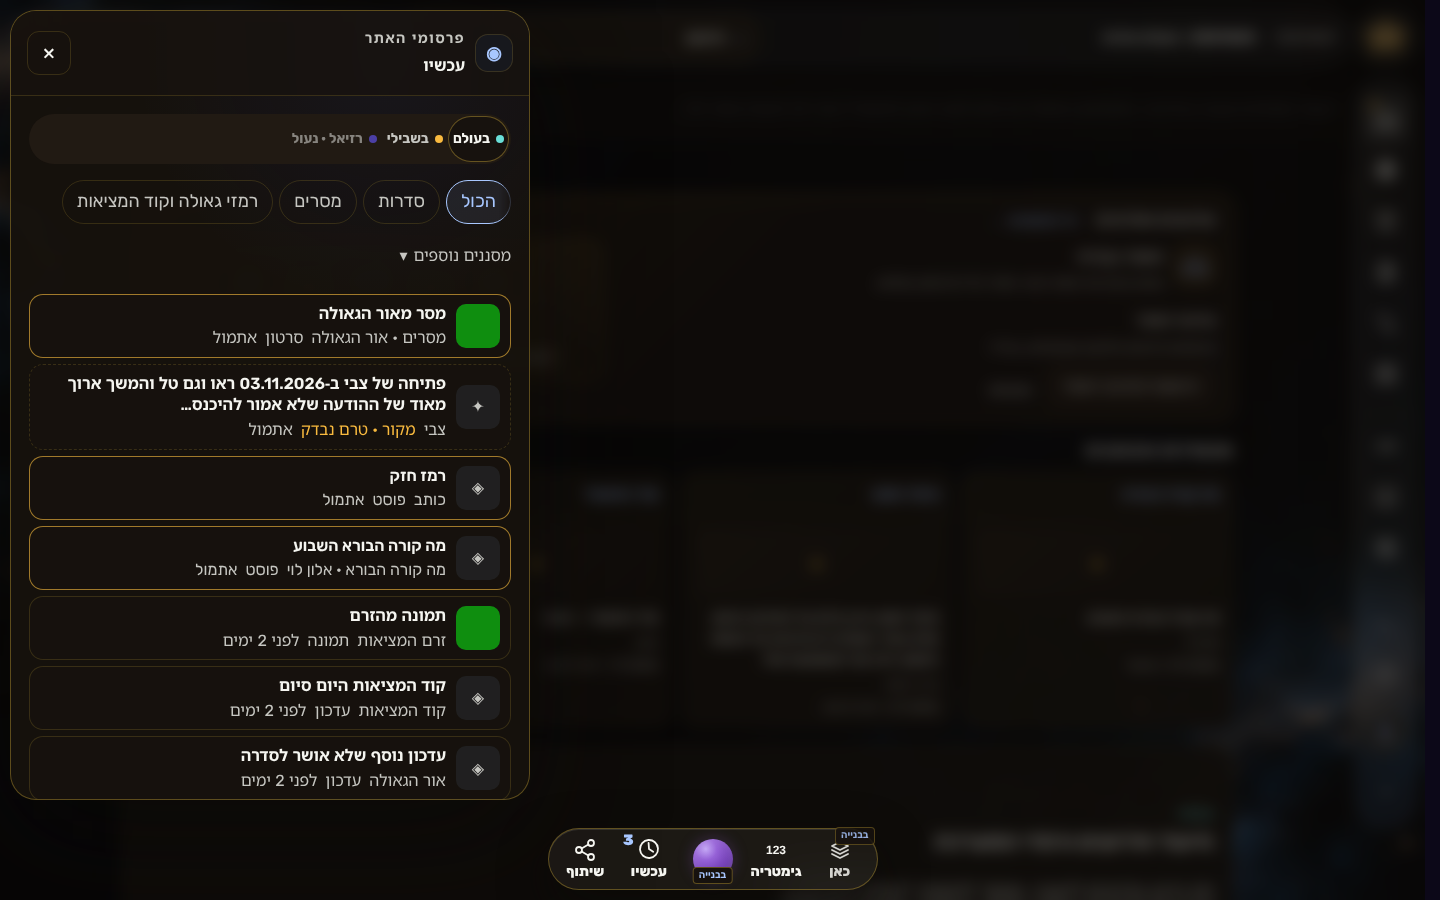
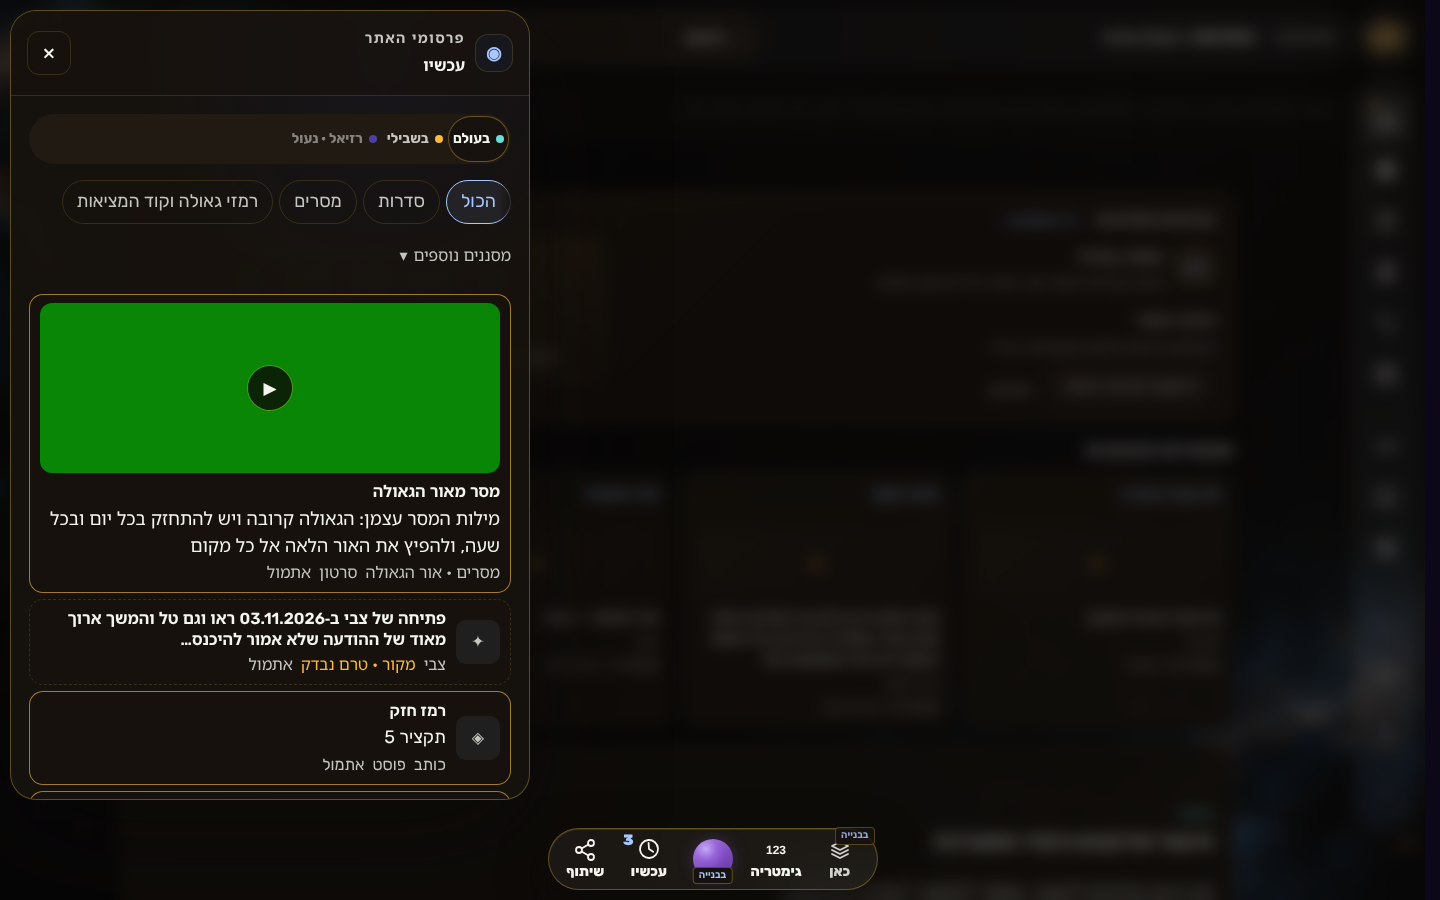
feat(2029): Now rows show the words of the message and a visible media preview
Unverified source (Zvi) rows stay two lines without preview.

Claude-Session: https://claude.ai/code/session_01H7739MZ2W1FHeYXdhPbKEB

Changed region(s): [[0.0, 0.3111, 0.375, 0.8711]]

diff --git a/src/components/experience2029/NowPublications2029.jsx b/src/components/experience2029/NowPublications2029.jsx
@@ -13,12 +13,25 @@ function Thumb({ model }) {
     : <span className="sod29-nowpub-thumb is-glyph" aria-hidden="true">{model.video ? "▶" : model.unverified ? "✦" : "◈"}</span>;
 }
 
+// Visible preview inside the row: never autoplays. A video without a poster shows its first frame (metadata only).
+function RowPreview({ model }) {
+  const poster = model.thumb;
+  return <span className={`sod29-nowpub-preview is-${model.previewKind}`} aria-hidden="true">
+    {model.previewKind === "video" && !poster && model.mediaHref
+      ? <video src={`${model.mediaHref}#t=0.1`} preload="metadata" muted playsInline tabIndex={-1} />
+      : poster ? <img src={poster} alt="" loading="lazy" decoding="async" /> : null}
+    {model.previewKind === "video" ? <span className="sod29-nowpub-playmark">▶</span> : null}
+  </span>;
+}
+
 function RowHead({ model, timeMode }) {
   const when = recordTimeLabel(model.at, timeMode, "זמן לא צוין");
+  const rich = Boolean(model.previewKind);
   return <>
-    <Thumb model={model} />
+    {rich ? <RowPreview model={model} /> : <Thumb model={model} />}
     <span className="sod29-nowpub-text">
-      <strong className="sod29-nowpub-title">{model.title}</strong>
+      {model.excerptIsLead ? null : <strong className="sod29-nowpub-title">{model.title}</strong>}
+      {model.excerpt ? <span className={`sod29-nowpub-excerpt${model.excerptIsLead ? " is-lead" : ""}`}>{model.excerpt}</span> : null}
       <small className="sod29-nowpub-meta">
         {model.byline.length ? <span>{model.byline.join(" · ")}</span> : null}
         <span className={model.unverified ? "is-unverified" : undefined}>{model.typeLabel}</span>
@@ -54,7 +67,7 @@ function RowDetail({ model, onOpen, feed }) {
 }
 
 function Row({ model, onOpen, feed, timeMode }) {
-  const className = `sod29-nowpub-row is-${model.media}${model.unverified ? " is-source" : ""}${model.row.isNew ? " is-new" : ""}`;
+  const className = `sod29-nowpub-row is-${model.media}${model.previewKind ? " has-preview" : ""}${model.unverified ? " is-source" : ""}${model.row.isNew ? " is-new" : ""}`;
   if (model.canExpand) return <li><details className={className} onToggle={event => { if (event.currentTarget.open) feed?.see?.(model.row); }}>
     <summary><RowHead model={model} timeMode={timeMode} /></summary>
     <RowDetail model={model} onOpen={onOpen} feed={feed} />

diff --git a/src/components/experience2029/nowPublications2029.css b/src/components/experience2029/nowPublications2029.css
@@ -29,6 +29,12 @@
 .sod29-nowpub-title{font-size:var(--s29-type-ui);font-weight:600;line-height:1.35;display:-webkit-box;-webkit-line-clamp:2;-webkit-box-orient:vertical;overflow:hidden;overflow-wrap:anywhere}
 .sod29-nowpub-meta{display:flex;flex-wrap:wrap;gap:2px 8px;font-size:var(--s29-type-small);color:var(--s29-muted);line-height:1.35}
 .sod29-nowpub-meta .is-unverified,.sod29-nowpub-detail .is-unverified{color:var(--s29-brand-gold)}
+.sod29-nowpub-excerpt{font-size:var(--s29-type-body);line-height:1.5;display:-webkit-box;-webkit-line-clamp:4;-webkit-box-orient:vertical;overflow:hidden;overflow-wrap:anywhere;color:var(--s29-ink)}
+.sod29-nowpub-excerpt.is-lead{font-weight:600}
+.sod29-nowpub-row.has-preview.is-link,.sod29-nowpub-row.has-preview>summary{flex-direction:column;align-items:stretch;gap:8px}
+.sod29-nowpub-preview{position:relative;display:block;width:100%;aspect-ratio:16/9;max-height:170px;border-radius:12px;overflow:hidden;background:color-mix(in srgb,var(--s29-panel) 80%,#000)}
+.sod29-nowpub-preview img,.sod29-nowpub-preview video{position:absolute;inset:0;width:100%;height:100%;object-fit:cover;pointer-events:none}
+.sod29-nowpub-playmark{position:absolute;inset:0;margin:auto;width:44px;height:44px;border-radius:50%;display:grid;place-items:center;background:color-mix(in srgb,var(--s29-page) 78%,transparent);color:var(--s29-ink);font-size:17px;box-shadow:0 0 0 1px var(--s29-line-strong)}
 .sod29-nowpub-detail{display:grid;gap:10px;padding:2px 10px 12px;min-width:0}
 .sod29-nowpub-body{margin:0;font-size:var(--s29-type-body);line-height:1.65;white-space:pre-wrap;overflow-wrap:anywhere;max-height:40vh;overflow:auto}
 .sod29-nowpub-image,.sod29-nowpub-video{display:block;max-width:100%;max-height:44vh;border-radius:12px;background:#000;object-fit:contain}

diff --git a/src/lib/nowPublications2029.js b/src/lib/nowPublications2029.js
@@ -54,6 +54,19 @@ export function shortNowTitle(value, max = 84) {
 const list = value => Array.isArray(value) ? value : [];
 const hasAny = (values, wanted) => list(values).some(value => wanted.includes(value));
 
+/**
+ * The words of the message itself (not only a headline). Unverified source rows (Zvi) stay two lines: no excerpt.
+ * When the short title is just the beginning of the text, the text replaces it (`excerptIsLead`) instead of repeating it.
+ */
+export function nowExcerpt({ unverified, title, fullText, summary }) {
+  if (unverified) return { excerpt: "", excerptIsLead: false };
+  const body = (fullText || summary || "").replace(/\s+/g, " ").trim();
+  if (!body || body === title) return { excerpt: "", excerptIsLead: false };
+  const stem = title.replace(/[…\s]+$/g, "");
+  const lead = body.startsWith(stem) && body.length > stem.length;
+  return { excerpt: body.slice(0, 420), excerptIsLead: lead };
+}
+
 /** Compact, filterable model for one feed row (see feedRows). */
 export function nowRowModel(row) {
   const item = row?.item || {};
@@ -91,6 +104,8 @@ export function nowRowModel(row) {
     thumb: [!video && media, item.thumbUrl, item.imageUrl].find(url => /^https:\/\//.test(url || "")) || null,
     mediaHref: media, lenses,
     fullText, summary: summary && summary !== title ? summary : "",
+    ...nowExcerpt({ unverified, title, fullText, summary }),
+    previewKind: unverified ? null : video ? "video" : (image || media) ? "image" : null,
     canExpand: Boolean(fullText || media),
   };
 }

diff --git a/docs/reviews/now-bottom-bar-20261104/README.md b/docs/reviews/now-bottom-bar-20261104/README.md
@@ -37,6 +37,7 @@ Shared-file note (central review): `worldGroupSource.js` redaction and `worldDis
 | 2 | Keep place and behaviour | Fixed dock button next to Raziel | Unchanged; sheet opens above the bar | browser: dock hit-test inside the dock at 320/390/1440 × 3 themes; sheet bottom ≤ dock top on mobile; ELS "סורק/תוצאות" label code untouched | The existing blurred backdrop (closes on outside tap) is pre-existing and was not redesigned |
 | 3 | All public publications in one window | Posts + Zvi + 5 channels + gallery only; no series presence; stale approved video capped out | Series previews via the Home series reader; approved Or HaGeula occurrence merged by id; one row per publication | live read-only check (anon): posts, Zvi, gallery, 5 channels, 4 series, the approved video all present; 1 row per id | Post↔video of the *same* publication is merged only when ids/sourceRefs prove it; no such proof exists in data today |
 | 3 | Zvi public material in interim | Shown; but dates became `[מספר]` | Opening words, source, time, "מקור · טרם נבדק"; click → `/world#group-source-<id>` | unit + browser (date kept, phone/foreign link redacted, anchor reached, back works) | Private e-mail excluded; e-mail ingestion still unverified |
+| 4 | Words of the message + visible media (follow-up on ZURIEL feedback) | Headline only, media hidden until opened | Rows show the message text (up to 4 lines) and a 16:9 preview of the video/image inside the row; video never autoplays; Zvi/unverified rows stay two lines with no preview | unit + browser (excerpt present, preview present, Zvi row ≤100px) | A video without a poster shows its first frame (metadata only) |
 | 4 | Compact rows / filters | Large buttons, 2 long paragraphs, per-channel chips | 1-line title (≤2 lines), source/series, time, type, 44px thumb; chips only when they have rows; secondary series/source/media | screenshots 320/390/1440 | — |
 | 4 | Public name "מסרים" | "מסרים מצדיקים" | Display name in Now (series key and historical titles untouched) | unit + browser | Global rename (Home/Series/nav/meta/follow) belongs to the series/home owner; tests there still assert the old title |
 | 4 | Video on choice | native `<video preload=none>` inside details | Poster + play button; `<video>` mounted only after the user presses play; "לפרסום המלא" and "לסדרה" | browser: no `<video>` and nothing playing before choice; controls after; both actions present | — |
